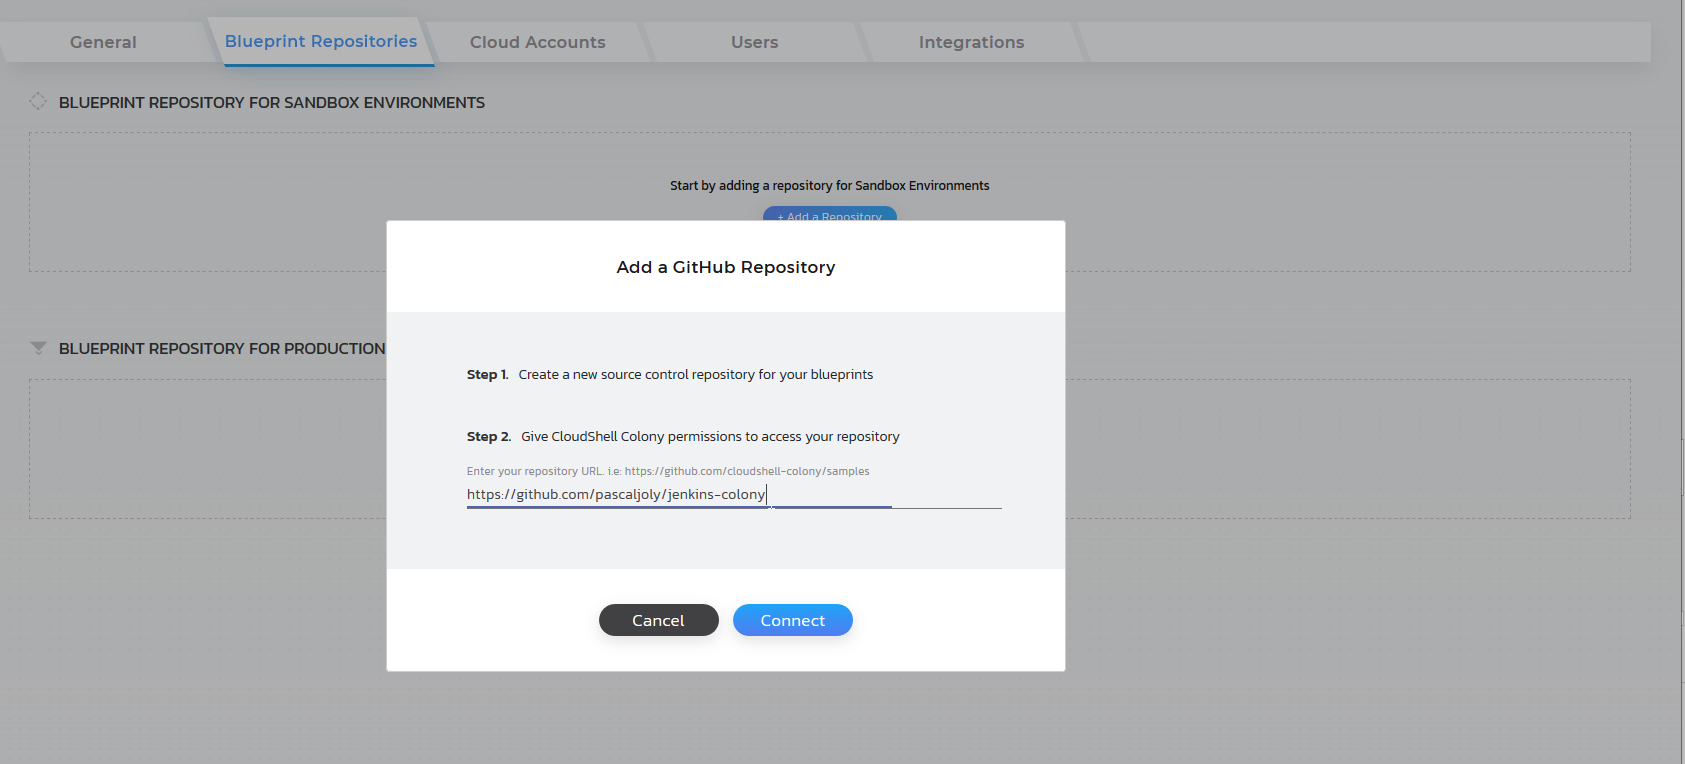
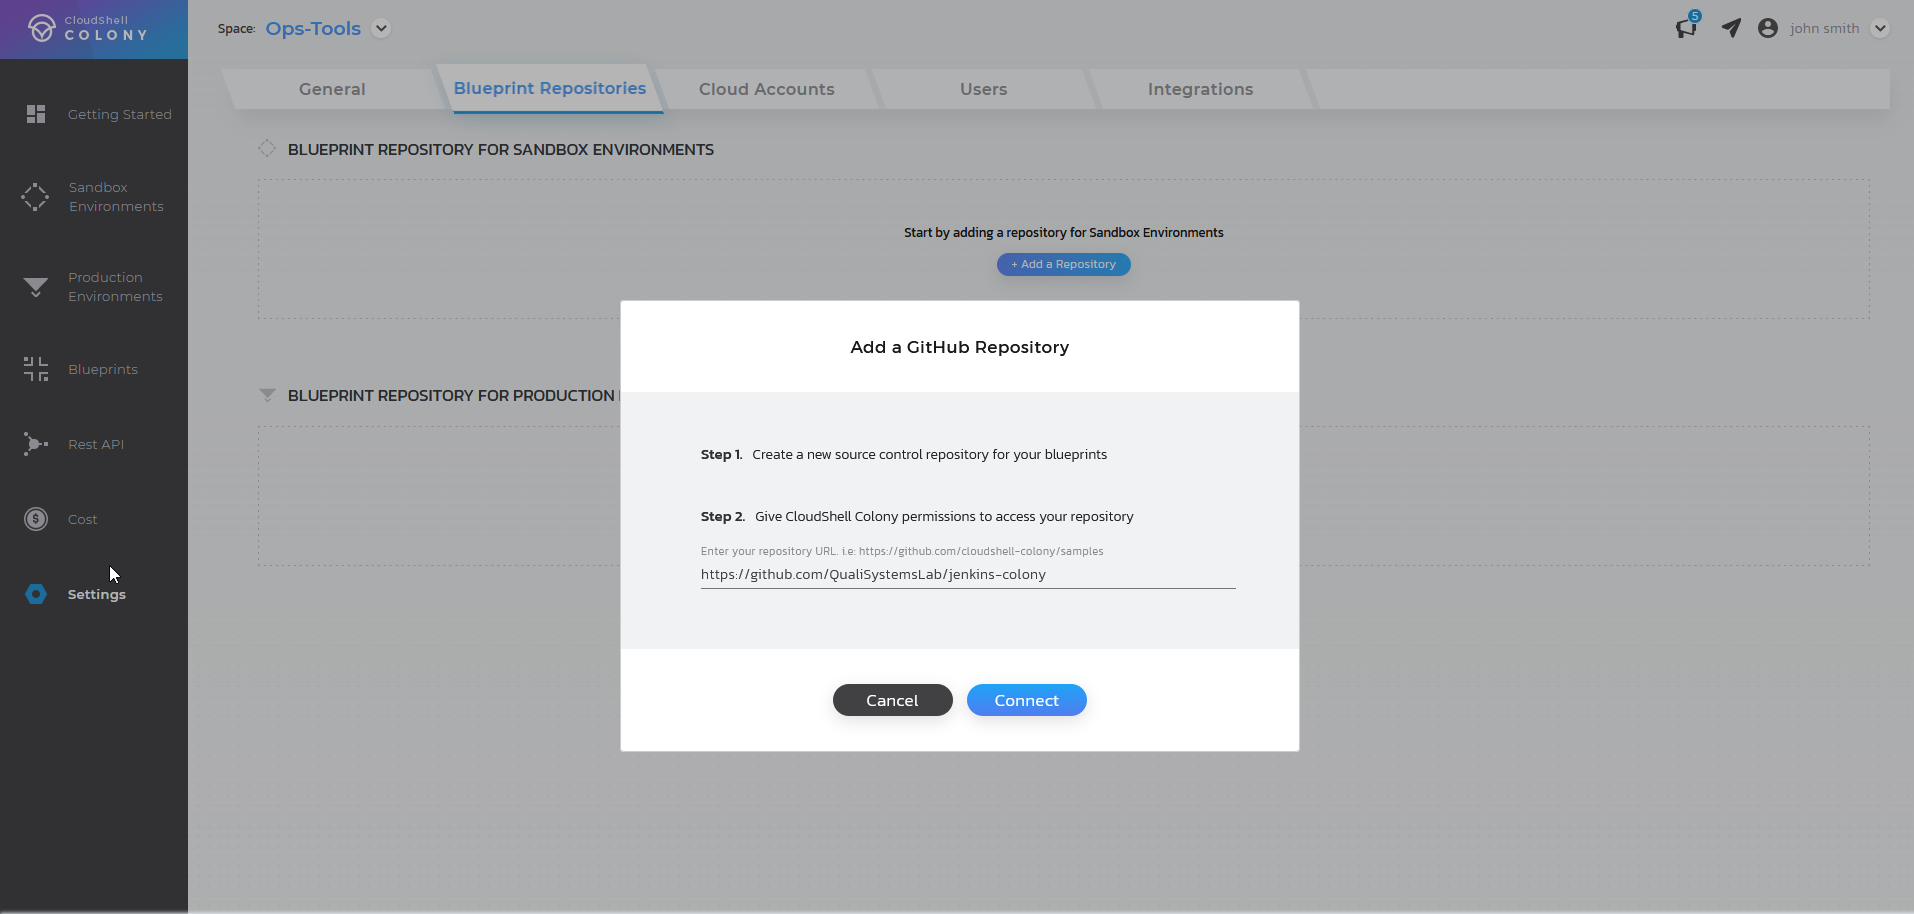
multiple updates

diff --git a/content/intro/30_terminology.md b/content/intro/30_terminology.md
@@ -4,10 +4,10 @@ date: 2020-10-12T20:33:20+03:00
 weight: 3
 ---
 
-* __Blueprint__ : Reusable template to capture and replicate complex application infrastructure. A blueprint is itself comprised of reusable __Building Blocks__
+* __Blueprint__: Reusable template to capture and replicate complex application infrastructure. A blueprint is itself comprised of reusable __Building Blocks__
 
 * __Environment:__ includes cloud infrastructure, containers, data, application
 
-* __Application Value Stream__ :Infrastructure automation from dev to production (CI/CD)
+* __Application Value Stream__:Infrastructure automation from dev to production (CI/CD)
 
-* __Self-Service__ :Launch scripting-free automation via intuitive UI, your CI/CD tools, or ChatOps
+* __Self-Service__:Launch scripting-free automation via intuitive UI, your CI/CD tools, or ChatOps

diff --git a/content/module3/prerequisites/10_page.md b/content/module3/prerequisites/10_page.md
@@ -5,4 +5,5 @@ weight: 10
 draft: false
 ---
 
+You will use the following public repository: https://github.com/QualiSystemsLab/jenkins-colony
  ![10_page](/images/module3/10_page.png)
